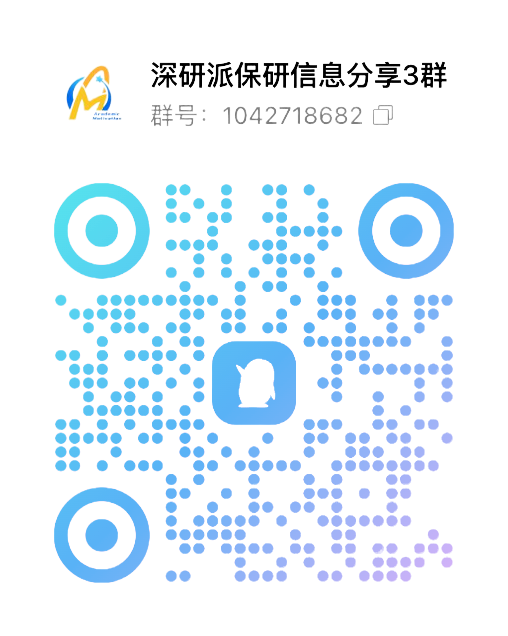
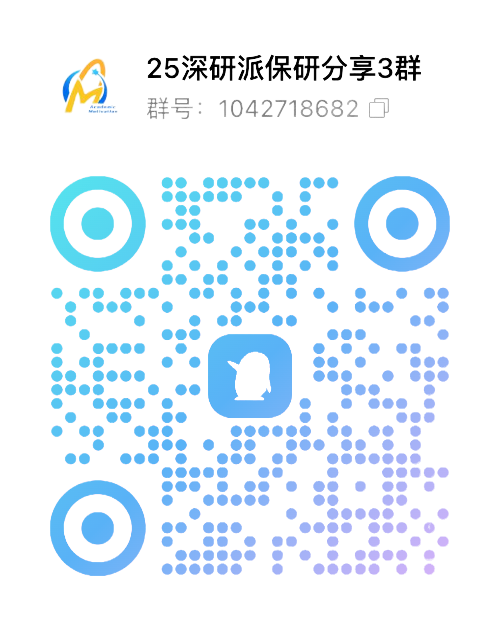
uptade

diff --git a/README-医农类.md b/README-医农类.md
@@ -146,12 +146,12 @@
 ## ⚠ 免责声明
 
 > 本页面信息仅供参考，具体招生政策、截止日期等信息请以各高校官方通知为准。
-## 👥 深研派保研信息分享3群
+## 👥 2025保研信息分享群
 
-欢迎加入深研派保研信息分享群，获取最新夏令营/推免/保研资讯、复习资料、经验分享、答疑交流、独家信息差，与全国优秀同学共同进步。
+欢迎加入2025深研派保研信息分享群，获取最新夏令营/预推免/九推等保研资讯、复习资料、经验分享、答疑交流、独家信息差，与全国优秀同学共同进步。
 
 <div align="center">
-<img src="./imgs/share_group.png" alt="深研派保研信息分享3群二维码" width="220"><br>
+<img src="./imgs/share_group.png" alt="2025深研派保研信息分享群二维码" width="220"><br>
 <b>群号：1042718682</b><br>
 </div>
 

diff --git a/README-截止日期.md b/README-截止日期.md
@@ -246,12 +246,12 @@
 ## ⚠ 免责声明
 
 > 本页面信息仅供参考，具体招生政策、截止日期等信息请以各高校官方通知为准。
-## 👥 深研派保研信息分享3群
+## 👥 2025保研信息分享群
 
-欢迎加入深研派保研信息分享群，获取最新夏令营/推免/保研资讯、复习资料、经验分享、答疑交流、独家信息差，与全国优秀同学共同进步。
+欢迎加入2025深研派保研信息分享群，获取最新夏令营/预推免/九推等保研资讯、复习资料、经验分享、答疑交流、独家信息差，与全国优秀同学共同进步。
 
 <div align="center">
-<img src="./imgs/share_group.png" alt="深研派保研信息分享3群二维码" width="220"><br>
+<img src="./imgs/share_group.png" alt="2025深研派保研信息分享群二维码" width="220"><br>
 <b>群号：1042718682</b><br>
 </div>
 

diff --git a/README-文法类.md b/README-文法类.md
@@ -124,12 +124,12 @@
 ## ⚠ 免责声明
 
 > 本页面信息仅供参考，具体招生政策、截止日期等信息请以各高校官方通知为准。
-## 👥 深研派保研信息分享3群
+## 👥 2025保研信息分享群
 
-欢迎加入深研派保研信息分享群，获取最新夏令营/推免/保研资讯、复习资料、经验分享、答疑交流、独家信息差，与全国优秀同学共同进步。
+欢迎加入2025深研派保研信息分享群，获取最新夏令营/预推免/九推等保研资讯、复习资料、经验分享、答疑交流、独家信息差，与全国优秀同学共同进步。
 
 <div align="center">
-<img src="./imgs/share_group.png" alt="深研派保研信息分享3群二维码" width="220"><br>
+<img src="./imgs/share_group.png" alt="2025深研派保研信息分享群二维码" width="220"><br>
 <b>群号：1042718682</b><br>
 </div>
 

diff --git a/README-理工类-截止日期.md b/README-理工类-截止日期.md
@@ -174,12 +174,12 @@
 ## ⚠ 免责声明
 
 > 本页面信息仅供参考，具体招生政策、截止日期等信息请以各高校官方通知为准。
-## 👥 深研派保研信息分享3群
+## 👥 2025保研信息分享群
 
-欢迎加入深研派保研信息分享群，获取最新夏令营/推免/保研资讯、复习资料、经验分享、答疑交流、独家信息差，与全国优秀同学共同进步。
+欢迎加入2025深研派保研信息分享群，获取最新夏令营/预推免/九推等保研资讯、复习资料、经验分享、答疑交流、独家信息差，与全国优秀同学共同进步。
 
 <div align="center">
-<img src="./imgs/share_group.png" alt="深研派保研信息分享3群二维码" width="220"><br>
+<img src="./imgs/share_group.png" alt="2025深研派保研信息分享群二维码" width="220"><br>
 <b>群号：1042718682</b><br>
 </div>
 

diff --git a/README-理工类.md b/README-理工类.md
@@ -353,12 +353,12 @@
 ## ⚠ 免责声明
 
 > 本页面信息仅供参考，具体招生政策、截止日期等信息请以各高校官方通知为准。
-## 👥 深研派保研信息分享3群
+## 👥 2025保研信息分享群
 
-欢迎加入深研派保研信息分享群，获取最新夏令营/推免/保研资讯、复习资料、经验分享、答疑交流、独家信息差，与全国优秀同学共同进步。
+欢迎加入2025深研派保研信息分享群，获取最新夏令营/预推免/九推等保研资讯、复习资料、经验分享、答疑交流、独家信息差，与全国优秀同学共同进步。
 
 <div align="center">
-<img src="./imgs/share_group.png" alt="深研派保研信息分享3群二维码" width="220"><br>
+<img src="./imgs/share_group.png" alt="2025深研派保研信息分享群二维码" width="220"><br>
 <b>群号：1042718682</b><br>
 </div>
 

diff --git a/README-经管类.md b/README-经管类.md
@@ -156,12 +156,12 @@
 ## ⚠ 免责声明
 
 > 本页面信息仅供参考，具体招生政策、截止日期等信息请以各高校官方通知为准。
-## 👥 深研派保研信息分享3群
+## 👥 2025保研信息分享群
 
-欢迎加入深研派保研信息分享群，获取最新夏令营/推免/保研资讯、复习资料、经验分享、答疑交流、独家信息差，与全国优秀同学共同进步。
+欢迎加入2025深研派保研信息分享群，获取最新夏令营/预推免/九推等保研资讯、复习资料、经验分享、答疑交流、独家信息差，与全国优秀同学共同进步。
 
 <div align="center">
-<img src="./imgs/share_group.png" alt="深研派保研信息分享3群二维码" width="220"><br>
+<img src="./imgs/share_group.png" alt="2025深研派保研信息分享群二维码" width="220"><br>
 <b>群号：1042718682</b><br>
 </div>
 

diff --git a/README.md b/README.md
@@ -530,12 +530,12 @@
 ## ⚠ 免责声明
 
 > 本页面信息仅供参考，具体招生政策、截止日期等信息请以各高校官方通知为准。
-## 👥 深研派保研信息分享3群
+## 👥 2025保研信息分享群
 
-欢迎加入深研派保研信息分享群，获取最新夏令营/推免/保研资讯、复习资料、经验分享、答疑交流、独家信息差，与全国优秀同学共同进步。
+欢迎加入2025深研派保研信息分享群，获取最新夏令营/预推免/九推等保研资讯、复习资料、经验分享、答疑交流、独家信息差，与全国优秀同学共同进步。
 
 <div align="center">
-<img src="./imgs/share_group.png" alt="深研派保研信息分享3群二维码" width="220"><br>
+<img src="./imgs/share_group.png" alt="2025深研派保研信息分享群二维码" width="220"><br>
 <b>群号：1042718682</b><br>
 </div>
 

diff --git a/README-医农类-截止日期.md b/README-医农类-截止日期.md
@@ -65,12 +65,12 @@
 ## ⚠ 免责声明
 
 > 本页面信息仅供参考，具体招生政策、截止日期等信息请以各高校官方通知为准。
-## 👥 深研派保研信息分享3群
+## 👥 2025保研信息分享群
 
-欢迎加入深研派保研信息分享群，获取最新夏令营/推免/保研资讯、复习资料、经验分享、答疑交流、独家信息差，与全国优秀同学共同进步。
+欢迎加入2025深研派保研信息分享群，获取最新夏令营/预推免/九推等保研资讯、复习资料、经验分享、答疑交流、独家信息差，与全国优秀同学共同进步。
 
 <div align="center">
-<img src="./imgs/share_group.png" alt="深研派保研信息分享3群二维码" width="220"><br>
+<img src="./imgs/share_group.png" alt="2025深研派保研信息分享群二维码" width="220"><br>
 <b>群号：1042718682</b><br>
 </div>
 

diff --git a/README-文法类-截止日期.md b/README-文法类-截止日期.md
@@ -57,12 +57,12 @@
 ## ⚠ 免责声明
 
 > 本页面信息仅供参考，具体招生政策、截止日期等信息请以各高校官方通知为准。
-## 👥 深研派保研信息分享3群
+## 👥 2025保研信息分享群
 
-欢迎加入深研派保研信息分享群，获取最新夏令营/推免/保研资讯、复习资料、经验分享、答疑交流、独家信息差，与全国优秀同学共同进步。
+欢迎加入2025深研派保研信息分享群，获取最新夏令营/预推免/九推等保研资讯、复习资料、经验分享、答疑交流、独家信息差，与全国优秀同学共同进步。
 
 <div align="center">
-<img src="./imgs/share_group.png" alt="深研派保研信息分享3群二维码" width="220"><br>
+<img src="./imgs/share_group.png" alt="2025深研派保研信息分享群二维码" width="220"><br>
 <b>群号：1042718682</b><br>
 </div>
 

diff --git a/README-经管类-截止日期.md b/README-经管类-截止日期.md
@@ -82,12 +82,12 @@
 ## ⚠ 免责声明
 
 > 本页面信息仅供参考，具体招生政策、截止日期等信息请以各高校官方通知为准。
-## 👥 深研派保研信息分享3群
+## 👥 2025保研信息分享群
 
-欢迎加入深研派保研信息分享群，获取最新夏令营/推免/保研资讯、复习资料、经验分享、答疑交流、独家信息差，与全国优秀同学共同进步。
+欢迎加入2025深研派保研信息分享群，获取最新夏令营/预推免/九推等保研资讯、复习资料、经验分享、答疑交流、独家信息差，与全国优秀同学共同进步。
 
 <div align="center">
-<img src="./imgs/share_group.png" alt="深研派保研信息分享3群二维码" width="220"><br>
+<img src="./imgs/share_group.png" alt="2025深研派保研信息分享群二维码" width="220"><br>
 <b>群号：1042718682</b><br>
 </div>
 
